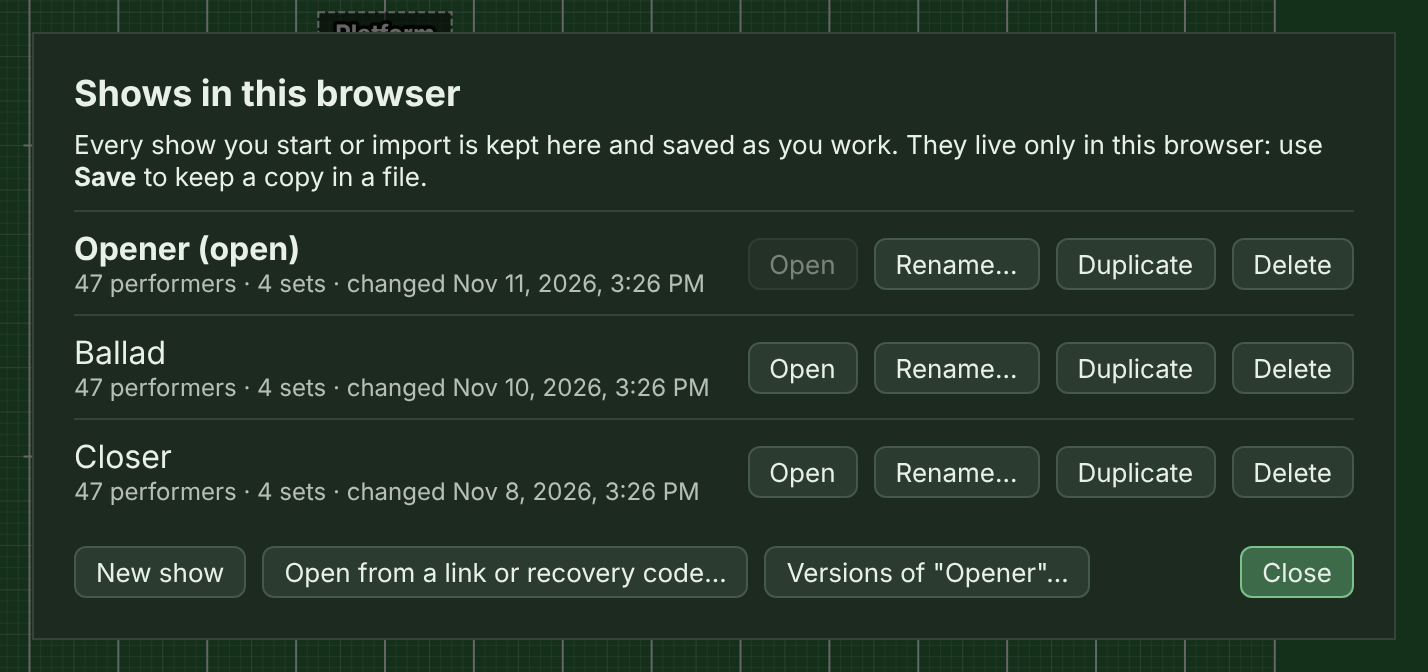
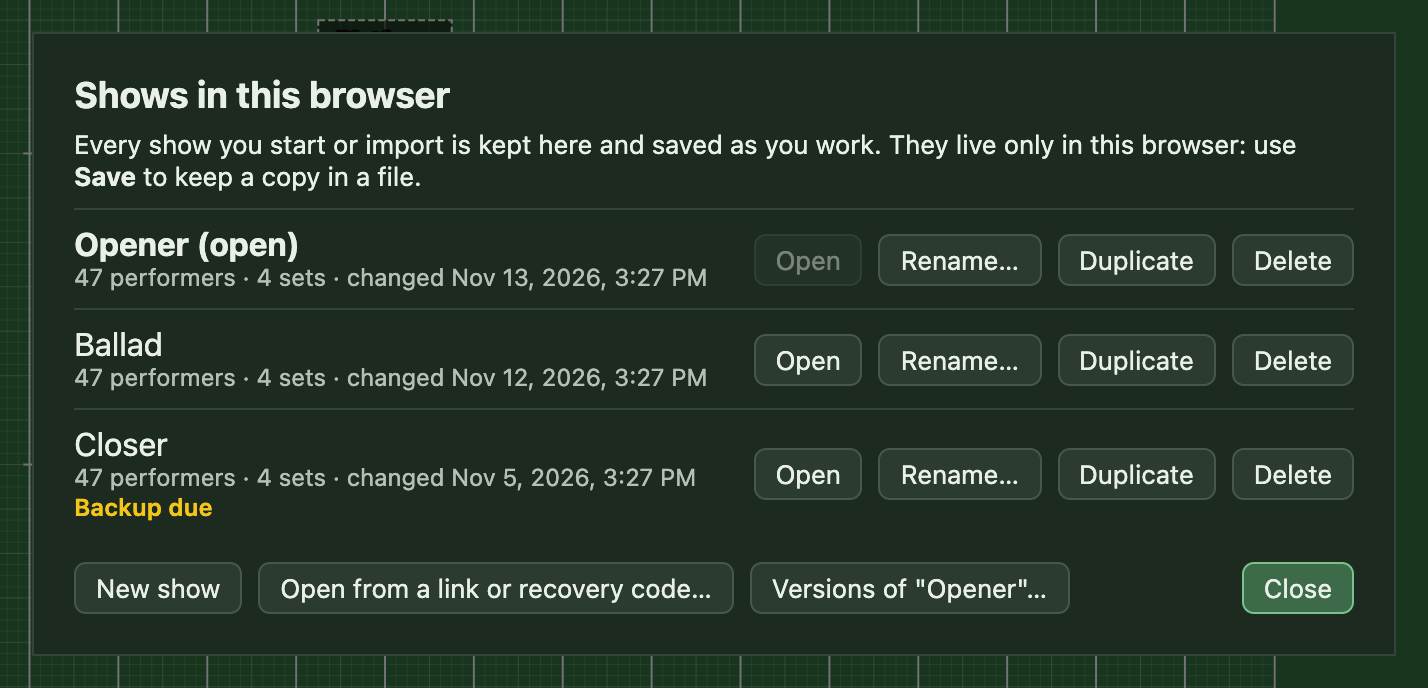
Show backup reminders in the show library
Share the editor’s one-week rule with the library so each show can show when a file backup is due.

diff --git a/src/App.tsx b/src/App.tsx
@@ -49,11 +49,10 @@ import { practiceShow, sampleShow } from './engine/sample';
 
 import { AUTOSAVE } from './ui/showStore';
 import { IconFit, IconZoomIn, IconZoomOut } from './ui/icons';
+import { backupDue, DAY, readTime, UNEXPORTED, unexportedKey, writeTime } from './ui/backupReminder';
 export { AUTOSAVE };
 const GUIDE = '../guide/'; // made from docs/HOW-TO.md when the site is built
-const UNEXPORTED = 'freeform:unexported-since', unexportedKey = (id?: string) => `${UNEXPORTED}:${id}`, fileSavedKey = (id?: string) => `freeform:file-saved:${id}`, SNOOZE = 'freeform:backup-later', DAY = 86_400_000, BACKUP_DAYS = 7;
-const readTime = (k: string) => { try { const n = Number(localStorage.getItem(k)); return n > 0 ? n : null; } catch { return null; } };
-const writeTime = (k: string, n: number | null) => { try { if (n) localStorage.setItem(k, String(n)); else localStorage.removeItem(k); } catch { /* storage blocked */ } };
+const fileSavedKey = (id?: string) => `freeform:file-saved:${id}`, SNOOZE = 'freeform:backup-later';
 const LOOK = 'freeform:section-view'; // which sections are dimmed or hidden in the editor
 
 function loadAutosave(): Show {
@@ -203,7 +202,7 @@ export function App() {
     return () => window.removeEventListener('storage', f);
   }, []);
 
-  // Backups: the show lives only in this browser, so after BACKUP_DAYS of changes that haven't been exported, a notice
+  // Backups: the show lives only in this browser, so after a week of changes that haven't been exported, a notice
   // asks for an Export. "Later" asks again in a day.
   const firstShow = useRef(show);
   // Each show has its own "changed since" time (unexportedKey).
@@ -212,7 +211,7 @@ export function App() {
   useEffect(() => { if (show !== firstShow.current && !unexported) { const now = Date.now(); writeTime(unexportedKey(show.id), now); setUnexported(now); } }, [show]); // eslint-disable-line react-hooks/exhaustive-deps
   const [fileSavedAt, setFileSavedAt] = useState(() => readTime(fileSavedKey(show.id))); // when Save last wrote this show to a file, for the status chip
   const backedUp = () => { const now = Date.now(); writeTime(unexportedKey(show.id), null); setUnexported(null); writeTime(fileSavedKey(show.id), now); setFileSavedAt(now); };
-  const remindBackup = !!unexported && show.performers.length > 0 && Date.now() - unexported > BACKUP_DAYS * DAY && Date.now() > (snooze ?? 0);
+  const remindBackup = backupDue(show.performers.length, unexported) && Date.now() > (snooze ?? 0);
   /**
    * Open a show in the editor (from the library, a file, a blank show, the sample). The one that was open stays in the
    * library. `fromFile`: it counts as backed up until it's changed. Undo starts over: it never reaches into another show.
@@ -1014,14 +1013,22 @@ export function App() {
     },
     rename: async (id, title) => {
       if (id === show.id) { setShow((s) => ({ ...s, title })); await keepShow({ ...show, title }); }
-      else await keepShow({ ...(await loadShow(id)), title });
+      else {
+        const saved = await loadShow(id);
+        if (saved.title === title) return;
+        if (!(await keepShow({ ...saved, title }))) throw new Error("This browser couldn't save the new show name.");
+        const key = unexportedKey(id);
+        if (readTime(key) === null) writeTime(key, Date.now());
+      }
     },
     duplicate: async (id) => {
       const s = id === show.id ? show : await loadShow(id);
-      if (!(await keepShow(await ownFiles({ ...s, id: newShowId(), title: `${s.title} (copy)` })))) throw new Error("This browser wouldn't store the copy (it may be out of space).");
+      const copy = await ownFiles({ ...s, id: newShowId(), title: `${s.title} (copy)` });
+      if (!(await keepShow(copy))) throw new Error("This browser wouldn't store the copy (it may be out of space).");
+      writeTime(unexportedKey(copy.id), Date.now());
     },
     remove: async (id) => {
-      if (id !== show.id) { await forgetShow(id); return; }
+      if (id !== show.id) { await forgetShow(id); writeTime(unexportedKey(id), null); return; }
       clearTimeout(keepTimer.current); // or the open show's next save would bring it back
       await forgetShow(id);
       writeTime(unexportedKey(id), null);

diff --git a/src/ui/Shows.tsx b/src/ui/Shows.tsx
@@ -4,6 +4,7 @@ import { DAILY_DAYS, RECENT, VERSION_EVERY } from '../engine/versions';
 import { useDialog } from './useDialog';
 import { listShows, listVersions, type Entry, type Listed } from './showStore';
 import { VersionPreview } from './VersionPreview';
+import { backupDue, readTime, unexportedKey } from './backupReminder';
 
 /** What the dialog asks the editor to do; each returns once it's done, so the list can be read again. */
 export interface ShowActions {
@@ -82,6 +83,7 @@ export function ShowsDialog({ show, act, onClose, linkFirst = false, versionsFir
                 <div style={{ flex: 1, minWidth: 0 }}>
                   <div style={{ fontWeight: open ? 700 : 400, overflow: 'hidden', textOverflow: 'ellipsis', whiteSpace: 'nowrap' }}>{x.title || 'Untitled show'}{open && ' (open)'}</div>
                   <div style={{ fontSize: 12, opacity: 0.75 }}>{size(x)} · changed {when(x.at)}</div>
+                  {backupDue(x.performers, readTime(unexportedKey(x.id))) && <div style={{ fontSize: 12, fontWeight: 600, color: 'var(--warn)' }}>Backup due</div>}
                 </div>
                 <button disabled={open} onClick={doing(() => act.open(x.id))}>Open</button>
                 <button onClick={doing(async () => { const t = prompt('New name for the show', x.title); if (t?.trim()) await act.rename(x.id, t.trim()); })}>Rename…</button>

diff --git a/src/ui/backupReminder.ts b/src/ui/backupReminder.ts
@@ -1,0 +1,25 @@
+export const DAY = 86_400_000;
+export const BACKUP_AGE = 7 * DAY;
+export const UNEXPORTED = 'freeform:unexported-since';
+export const unexportedKey = (id?: string) => `${UNEXPORTED}:${id}`;
+
+export function readTime(key: string): number | null {
+  try {
+    const time = Number(localStorage.getItem(key));
+    return Number.isFinite(time) && time > 0 ? time : null;
+  } catch {
+    return null;
+  }
+}
+
+export function writeTime(key: string, time: number | null) {
+  try {
+    if (time) localStorage.setItem(key, String(time));
+    else localStorage.removeItem(key);
+  } catch { /* storage blocked */ }
+}
+
+/** Shows with performers are due once their first change since a file save is over a week old. */
+export function backupDue(performers: number, unexportedSince: number | null, now = Date.now()): boolean {
+  return performers > 0 && unexportedSince !== null && now - unexportedSince > BACKUP_AGE;
+}

diff --git a/PLAN.md b/PLAN.md
@@ -41,7 +41,7 @@
 - ✅ Outside-review fixes (2026-11-06): an export offer before Import, New, or Sample replaces a show with unexported changes, and a note when the autosave fails; a blank field offers Place performers, Import a roster, or the sample show; mid-move the toolbar says it's a preview and links to the set; Delete names its target; the timeline's too-close warning jumps to the closest pair; close calls are found between half counts too; phones loop a range of sets; Print does a range of sets; revision numbers on phones and paper. ✅ A count-in before phone playback (2026-11-08); ✅ the Share dialog organized around "Send this version" vs. "Keep phones up to date", each saying what's included (2026-11-08). Follow-up: a simpler phone readout (test with students first).
 - ✅ Dim or hide sections in the editor (Shown, Dim, Hidden per section; can't be picked; paths left out; a per-browser view setting). ✅ A backup reminder after a week of changes not saved to a file (Save or Later). ✅ **Export** renamed **Save**, and it saves where you choose: a Save dialog in Chrome and Edge, the share sheet (Save to Files) on an iPad, a download elsewhere; after the first time, **Save** and ⌘S write to the same file and **Save As…** picks a new one (Chrome, Edge). Cloud sync is still the real fix.
 - ✅ Review (2026-11-08, ideas from OpenMarch): a per-show step limit (red past it, default a 4-to-5) with red rings on whoever is over it and a clickable red "max" on the timeline; one **Review** list of every problem in the show (steps over the limit, too-close pairs, imported paths gone straight, missing spots, counts not written), each a click away; a note when an edit turns imported Pyware paths into straight lines; lasso selection (Option-drag, or **Lasso** for touch). Follow-ups: props in the too-close check (performers on a platform are on purpose, so it needs a rule first); a way to keep an imported route after moving its end (re-fit it) instead of only Undo.
-- ✅ Storage (2026-11-08): several shows in one browser (**Shows…**: open, new, duplicate, rename, delete; the old single autosave moves in on first load), each keeping its own recording and tracing picture; earlier versions (one at most every 10 minutes of editing, the last 20 plus one a day for 60 days, restorable with Undo); a warning when the same show is changed in two tabs; **Full backup…** files that carry the recording and picture. ✅ Field preview of earlier versions before restoring. Follow-up: the backup reminder for shows that aren't open.
+- ✅ Storage (2026-11-08): several shows in one browser (**Shows…**: open, new, duplicate, rename, delete; the old single autosave moves in on first load), each keeping its own recording and tracing picture; earlier versions (one at most every 10 minutes of editing, the last 20 plus one a day for 60 days, restorable with Undo); a warning when the same show is changed in two tabs; **Full backup…** files that carry the recording and picture. ✅ Field preview of earlier versions before restoring. ✅ **Backup due** labels in **Shows…** use the editor's one-week rule for open and closed shows.
 - ✅ A route for one performer (an FTL group of one: **Give a route**, then click its points) and **Smooth** routes (a curve through the turns) for any FTL group.
 - ✅ A metronome click while playing at a tempo, in the editor and on phones (higher where a set lands; timed on the audio clock).
 - ✅ Several shows on a phone (Jason: separate files per tune): every link opened joins the phone's list (up to 12); the title is a menu to switch, add, or remove; a new show starts on the same label; the same show again replaces itself.

diff --git a/docs/HOW-TO.md b/docs/HOW-TO.md
@@ -594,7 +594,7 @@ When something isn't saved somewhere it could be, the box also gets a dashed out
 
   **⌘S** (Ctrl+S on Windows) is the same as **Save**, even while you're typing in a box. FreeFORM forgets the file when you open or start another show, or close the page; the next Save asks again.
 
-  If a show has changes you haven't saved to a file for a week, a note over the field reminds you, with a **Save** button (and **Full backup…** if the show has a recording or a tracing picture). **Later** asks again tomorrow.
+  If a show with performers has changes you haven't saved to a file for a week, a note over the field reminds you, with a **Save** button (and **Full backup…** if the show has a recording or a tracing picture). **Later** asks again tomorrow. In **Shows…**, **Backup due** stays beside each show that needs a file copy, even while it's closed or the field reminder is snoozed. Saving a file clears the label.
 - **Full backup…** (next to **Save As…**) saves a `.freeform` file that also holds the show's recording and tracing picture, and its publishing if you published it to phones from here, so the show moves to another computer complete and keeps updating the same phone link. Keep a full backup private, since it can change the published show. It's much bigger than an ordinary save (a 4-minute mp3 adds about 8 MB), so keep using **Save** for everyday backups. It always asks where to save, and ⌘S never writes over it. **Import…** on the other computer brings the show in with its recording and picture. Share links never carry the recording.
 - **If the autosave fails.** If the browser refuses to save (its storage is full, or it's a private window), a note over the field says so, with **Save now**. Until it's fixed, your work is only in that open tab and any file you save.
 - **Import…** opens a `.freeform` file (older `.freeform.json` files too) as a new show; the one you had open stays under **Shows…**. A file of a show that's already in this browser comes in as a copy beside it, never over it. A file from before November 7, 2026 with facings or guard equipment set opens with them as performer notes on the same set ("Face Side 2," "Flag").

diff --git a/DECISIONS.md b/DECISIONS.md
@@ -1742,3 +1742,9 @@ Each entry: timestamp, who decided, context, options considered, decision.
 - Jason asked to see the field and step through the sets of an earlier version before choosing whether to restore. The preview controls are Codex's choices, subject to Jason's review.
 - The list used to offer Restore next to each timestamp. We considered opening the full editor temporarily. The list now opens a preview inside the same dialog, using the saved version's field, performers, props, and marks.
 - Previous set, Next set, and the set menu browse the saved formations. Back to versions returns to the list. Restore keeps a copy of the current show before applying the previewed version as an undoable edit.
+
+## 2026-11-13 15:27 EST — Backup due in Shows
+
+- Jason asked for a **Backup due** label on each qualifying show, including closed shows. The label placement is Codex's choice, subject to Jason's review.
+- The editor already tracks when each show first changed after its last file save. The library uses that timestamp and the editor's one-week rule. We considered using the library's most recent edit date, which would keep pushing the reminder back as a show is edited.
+- **Later** still snoozes the field reminder for a day. The library label reports which shows need a file copy and clears on a file save. A new duplicate or a rename made while a show is closed starts tracking changes for that show.

diff --git a/README.md b/README.md
@@ -64,7 +64,7 @@ A note on where the ideas came from: FreeFORM is modeled on Pyware and the Ultim
 
 **Files**
 - Autosave in your browser, plus **Save** (to any folder you choose, where the browser allows it) and import of `.freeform` files. FreeFORM says so if the browser can't autosave. A box at the bottom of the sidebar says whether the show is saved in the browser, in a file, and on phones (a line each: "Browser ✓", "File: 2:14 PM", "Phones: rev 6"), with Save and Publish a click away.
-- Several shows in one browser (Opener, Ballad, Closer) under **Shows…**: open, rename, duplicate, or delete them, each with its own recording and tracing picture.
+- Several shows in one browser (Opener, Ballad, Closer) under **Shows…**: open, rename, duplicate, or delete them, each with its own recording and tracing picture. **Backup due** marks shows with a week of changes that haven't been saved to a file.
 - Earlier versions of each show, kept as you work. Preview the field set by set before restoring.
 - A warning when the same show is changed in two tabs, instead of one quietly saving over the other.
 - **Full backup…**: a show file that also holds the recording and tracing picture, to move a show to another computer complete.
